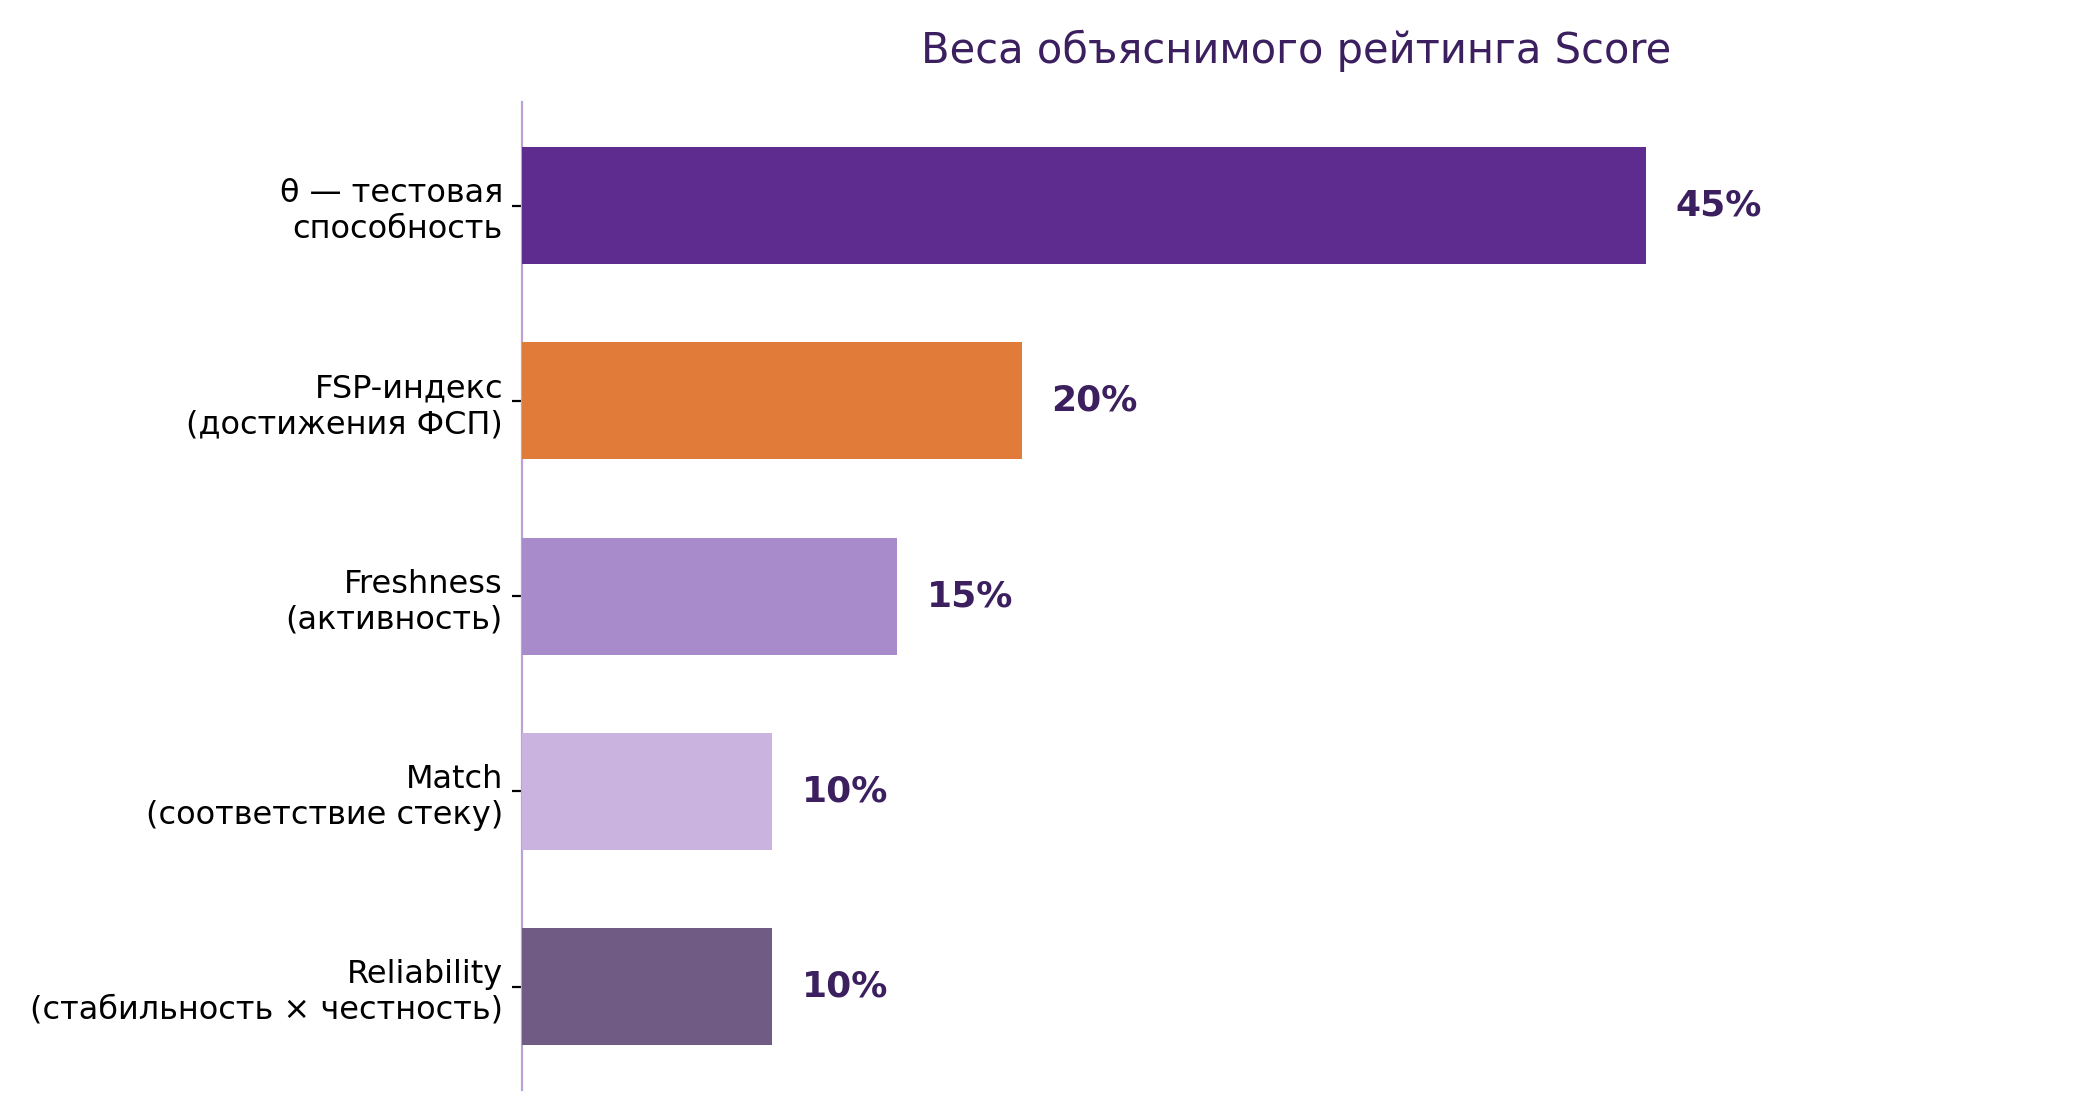
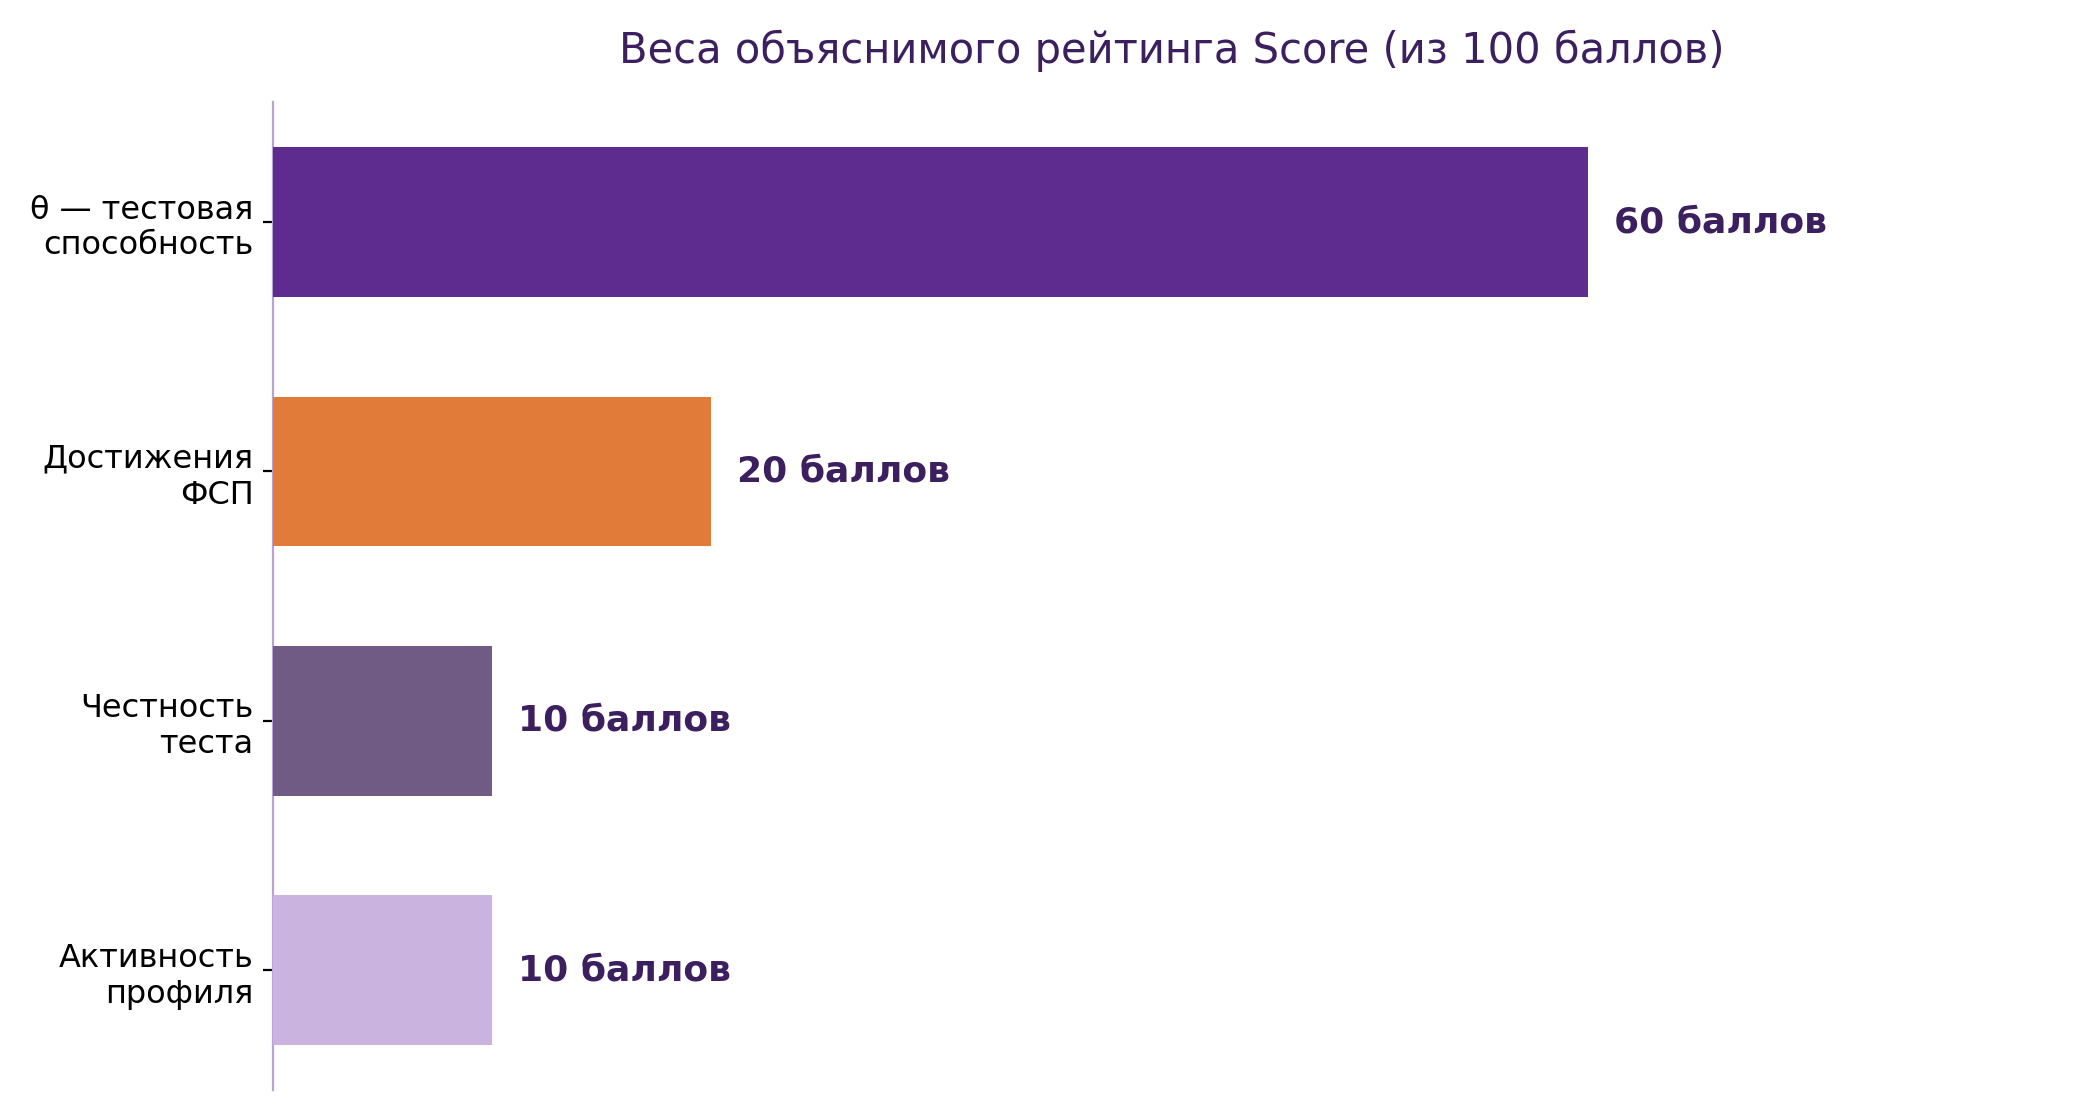
Score 60/20/10/10: честность — самостоятельный вклад, стек и стабильность убраны из рейтинга; рост профиля без стека; парсинг потребности с транслит-словарём; демо-реестр вместо мок-реестра; кнопки копирования демо-ID ФСП; перемеры подборки (19–28 мс) и бенчмарка подбора

Changed region(s): [[0.031, 0.125, 0.8667, 0.7812], [0.031, 0.7812, 0.4333, 0.9375], [0.2786, 0.0312, 0.8357, 0.0625]]

diff --git a/frontend/app/candidate/page.tsx b/frontend/app/candidate/page.tsx
@@ -437,9 +437,18 @@ function ProfileFsp({ profile, reload }: any) {
       )}
       {msg && <p className="mt-2 text-sm text-gray-600">{msg}</p>}
       <p className="mt-2 text-xs text-gray-400">
-        Укажите ваши достижения в ФСП: введите ID участника (вида FSP-2026-0001) — подтвердим их автоматически
-        и добавим вам вес в подборках работодателей.
+        Укажите ваши достижения в ФСП: введите ID участника — подтвердим их автоматически
+        и добавим вам вес в подборках работодателей. Демо-ID для проверки:
       </p>
+      <div className="mt-1.5 flex flex-wrap gap-1.5">
+        {["FSP-2026-0001", "FSP-2026-0002", "FSP-2026-0003"].map((id) => (
+          <button key={id} type="button"
+            className="rounded-md border border-[#c8b0e0] px-2 py-0.5 font-mono text-[11px] text-[#5e2b8e] hover:bg-[#f3ecfa]"
+            onClick={() => { setFspId(id); navigator.clipboard?.writeText(id); }}>
+            {id}
+          </button>
+        ))}
+      </div>
     </Card>
   );
 }

diff --git a/backend/app/services/scoring.py b/backend/app/services/scoring.py
@@ -8,17 +8,16 @@ from sqlalchemy.ext.asyncio import AsyncSession
 from app.models import GRADE_ORDER, CandidateCategory, CandidateProfile, EmployerNeed, Grade
 
 WEIGHTS = {
-    "theta": 0.45,
+    "theta": 0.60,
     "fsp": 0.20,
-    "freshness": 0.15,
-    "match": 0.10,
-    "reliability": 0.10,
+    "integrity": 0.10,
+    "freshness": 0.10,
 }
 LEVEL_WEIGHT = {"international": 1.0, "national": 0.7, "regional": 0.4}
 YEAR_DECAY = 0.85
 
 GRADE_RU = {"junior": "младший", "middle": "средний", "senior": "старший", "lead": "ведущий"}
-breakdown_order = ["theta", "fsp", "freshness", "match", "reliability"]
+breakdown_order = ["theta", "fsp", "integrity", "freshness"]
 
 
 def category_ru(spec_name: str, grade: str) -> str:
@@ -60,8 +59,8 @@ def fsp_index(history: list | None) -> float:
 
 
 def compute_score(
-    candidate: CandidateProfile, need_stack: list, solved_recent: bool = False,
-    theta_override: float | None = None, need_vec: list | None = None,
+    candidate: CandidateProfile, solved_recent: bool = False,
+    theta_override: float | None = None,
 ) -> tuple[float, dict]:
     theta_value = 1.0 / (1.0 + math.exp(-(theta_override if theta_override is not None else (candidate.theta or 0.0))))
 
@@ -73,25 +72,7 @@ def compute_score(
         days = max(0.0, (datetime.now(timezone.utc) - candidate.last_activity_at).total_seconds() / 86400)
         fresh_value = min(1.0, math.exp(-days / 21.0) + (0.25 if solved_recent else 0.0))
 
-    if candidate.stack and need_stack:
-        cs = {s.lower().strip() for s in candidate.stack}
-        ns = {s.lower().strip() for s in need_stack}
-        match_value = len(cs & ns) / len(ns) if ns else 0.5
-    else:
-        match_value = 0.5
-    doc = " ".join(candidate.stack or []) + " " + (candidate.summary or "")
-    need_v = need_vec if need_vec is not None else text_vector(" ".join(need_stack or []))
-    match_value = max(match_value, round(match_semantic(doc, need_v), 3))
-
-    if candidate.theta_se is None:
-        rel_value = 0.5
-    else:
-        rel_value = 1.0 / (1.0 + candidate.theta_se**2)
-        if candidate.theta_history and len(candidate.theta_history) > 1:
-            mean = sum(candidate.theta_history) / len(candidate.theta_history)
-            var = sum((t - mean) ** 2 for t in candidate.theta_history) / len(candidate.theta_history)
-            rel_value = 0.5 * rel_value + 0.5 * (1.0 / (1.0 + var))
-    rel_value *= 0.6 + 0.4 * (candidate.integrity if candidate.integrity is not None else 1.0)
+    integrity_value = candidate.integrity if candidate.integrity is not None else 1.0
 
     breakdown = {
         "theta": {"value": round(theta_value, 3), "weight": WEIGHTS["theta"],
@@ -100,15 +81,12 @@ def compute_score(
         "fsp": {"value": round(fsp_value, 3), "weight": WEIGHTS["fsp"],
                 "contribution": round(WEIGHTS["fsp"] * fsp_value, 3),
                 "label": "Достижения ФСП"},
+        "integrity": {"value": round(integrity_value, 3), "weight": WEIGHTS["integrity"],
+                      "contribution": round(WEIGHTS["integrity"] * integrity_value, 3),
+                      "label": "Честность теста"},
         "freshness": {"value": round(fresh_value, 3), "weight": WEIGHTS["freshness"],
                       "contribution": round(WEIGHTS["freshness"] * fresh_value, 3),
                       "label": "Активность профиля"},
-        "match": {"value": round(match_value, 3), "weight": WEIGHTS["match"],
-                  "contribution": round(WEIGHTS["match"] * match_value, 3),
-                  "label": "Соответствие стеку"},
-        "reliability": {"value": round(rel_value, 3), "weight": WEIGHTS["reliability"],
-                        "contribution": round(WEIGHTS["reliability"] * rel_value, 3),
-                        "label": "Стабильность результатов"},
     }
     return sum(v["contribution"] for v in breakdown.values()), breakdown
 
@@ -117,7 +95,7 @@ async def parse_need(db: AsyncSession, raw_text: str) -> dict:
     from app.models import Specialization
     specs = (await db.execute(select(Specialization))).scalars().all()
 
-    text = raw_text.lower()
+    text = normalize_text(raw_text)
     spec_code = next((s.code for s in specs if s.code in text or s.name.lower() in text), None)
 
     min_grade = None
@@ -143,7 +121,6 @@ async def build_shortlist(
 ) -> list[dict]:
     from app.models import Specialization, Microtask, MicrotaskStatus
     spec_names = {s.code: s.name for s in (await db.execute(select(Specialization))).scalars().all()}
-    need_vec = text_vector(need.raw_text or " ".join(need.stack or []))
     solved_ids = set((await db.execute(
         select(Microtask.candidate_id).where(
             Microtask.status.in_([MicrotaskStatus.solved, MicrotaskStatus.approach]),
@@ -180,9 +157,8 @@ async def build_shortlist(
         if only_fsp and not c.fsp_history:
             continue
 
-        score, breakdown = compute_score(c, need.stack or [], theta_override=cat.theta,
-                                         solved_recent=str(c.user_id) in solved_ids,
-                                         need_vec=need_vec)
+        score, breakdown = compute_score(c, theta_override=cat.theta,
+                                         solved_recent=str(c.user_id) in solved_ids)
         top2 = sorted(breakdown.values(), key=lambda v: v["contribution"], reverse=True)[:2]
         rationale = (
             f"Категория {spec_names.get(cat.specialization_code, cat.specialization_code)} · {GRADE_RU[cat.grade.value]}; "
@@ -242,9 +218,6 @@ def freshness_days_left(last_activity_at: datetime | None, threshold: float = 1.
     return int(round(21.0 * math.log(now_level / threshold)))
 
 
-KEYBOARD_RU = "йцукенгшщзхъфывапролджэячсмитьбюё"
-KEYBOARD_EN = "qwertyuiop[]asdfghjkl;'zxcvbnm,.`"
-
 SYNONYMS = {
     "реакт": "react", "реактом": "react", "рекат": "react", "реактjs": "react",
     "вью": "vue", "вьюjs": "vue", "анжуляр": "angular", "антуляр": "angular",
@@ -262,53 +235,10 @@ SYNONYMS = {
     "компьютерное зрение": "cv", "компзрени": "cv",
 }
 
-_TOKEN_RE = re.compile(r"[a-zа-яё0-9+#.\-]{2,}")
-
-
-def translate_layout(text: str) -> str:
-    """Перекладка раскладки: «въпросы»→ «dfgkbp» нет — только ru→en и en→ru
-    для латинских фрагментов, набранных в русской раскладке, и наоборот."""
-    out = text
-    table_en = str.maketrans(KEYBOARD_RU, KEYBOARD_EN)
-    table_ru = str.maketrans(KEYBOARD_EN, KEYBOARD_RU)
-    for tok in _TOKEN_RE.findall(text):
-        if re.fullmatch(r"[а-яё]+", tok):
-            en = tok.translate(table_en)
-            if re.fullmatch(r"[a-z]+", en):
-                out = out.replace(tok, f"{tok} {en}")
-        elif re.fullmatch(r"[a-z]+", tok) and len(tok) > 2:
-            ru = tok.translate(table_ru)
-            if re.fullmatch(r"[а-яё]+", ru):
-                out = out.replace(tok, f"{tok} {ru}")
-    return out
-
 
 def normalize_text(text: str) -> str:
-    """Единая нормализация: раскладка → нижний регистр → синонимы → токены."""
-    text = translate_layout(text.lower().replace("ё", "е"))
+    """Нормализация потребности: регистр, ё и словарь транслит-синонимов."""
+    text = text.lower().replace("ё", "е")
     for k, v in sorted(SYNONYMS.items(), key=lambda kv: -len(kv[0])):
         text = re.sub(rf"(?<!\w){re.escape(k)}(?!\w)", v, text)
-    return " ".join(_TOKEN_RE.findall(text))
-
-
-def text_vector(text: str, dim: int = 256):
-    """Хэш-вектор bag-of-words (256): без тяжёлой модели, ловит пересечение
-    слов и фраз; нормализован под косинусную близость (pgvector <=>)."""
-    import hashlib
-    vec = [0.0] * dim
-    toks = normalize_text(text).split()
-    for tok in toks:
-        idx = int(hashlib.md5(tok.encode()).hexdigest(), 16) % dim
-        vec[idx] += 1.0
-    n = sum(v * v for v in vec) ** 0.5
-    return [v / n for v in vec] if n else vec
-
-
-def cosine(a: list, b: list) -> float:
-    return sum(x * y for x, y in zip(a, b))
-
-
-def match_semantic(candidate_doc: str, need_vec: list) -> float:
-    """Косинусная близость документа кандидата к вектору потребности."""
-    cvec = text_vector(candidate_doc)
-    return max(0.0, min(1.0, cosine(cvec, need_vec)))
+    return text

diff --git a/backend/app/api/routes/interaction.py b/backend/app/api/routes/interaction.py
@@ -457,42 +457,23 @@ async def candidate_growth(candidate=Depends(get_candidate_profile), db=Depends(
         select(CandidateCategory).where(CandidateCategory.candidate_id == candidate.user_id)
     )).scalars().all()
     if not cats:
-        return {"steps": [{"action": "Пройдите тестирование — без категории вы невидимы для работодателей", "delta": 0.45}]}
+        return {"steps": [{"action": "Пройдите тестирование — без категории вы невидимы для работодателей", "delta": 0.60}]}
 
     cat = max(cats, key=lambda x: x.theta)
-    base, breakdown = compute_score(candidate, [], theta_override=cat.theta)
+    base, breakdown = compute_score(candidate, theta_override=cat.theta)
 
     steps = []
     fresh_now = breakdown["freshness"]["value"]
     if fresh_now < 0.99:
         steps.append({
             "action": "Решите микрозадачу — профиль снова «тёплый»",
-            "delta": round(0.15 * (1.0 - fresh_now), 3),
-        })
-    my_stack = {s.lower() for s in (candidate.stack or [])}
-    wanted = (await db.execute(
-        select(Vacancy.stack).where(
-            Vacancy.is_active.is_(True),
-            Vacancy.specialization_code == cat.specialization_code,
-        )
-    )).scalars().all()
-    popular: dict[str, int] = {}
-    for stack in wanted:
-        for t in stack:
-            if t.lower() not in my_stack:
-                popular[t.lower()] = popular.get(t.lower(), 0) + 1
-    top_wanted = sorted(popular, key=popular.get, reverse=True)[:3]
-    if top_wanted:
-        match_now = breakdown["match"]["value"]
-        steps.append({
-            "action": f"Добавьте навыки из актуальных вакансий: {', '.join(top_wanted)}",
-            "delta": round(0.10 * (1.0 - match_now), 3),
+            "delta": round(0.10 * (1.0 - fresh_now), 3),
         })
     bounds = {"junior": -0.5, "middle": 0.5, "senior": 1.5, "lead": None}
     target_b = bounds.get(cat.grade.value)
     if target_b is not None:
         theta_target = target_b + 0.25
-        delta = 0.45 * (1.0 / (1.0 + math.exp(-theta_target)) - breakdown["theta"]["value"])
+        delta = 0.60 * (1.0 / (1.0 + math.exp(-theta_target)) - breakdown["theta"]["value"])
         if delta > 0.005:
             next_grade = GRADE_ORDER[GRADE_ORDER.index(cat.grade.value) + 1]
             steps.append({
@@ -531,7 +512,7 @@ async def candidate_metrics_data(db, candidate) -> list[dict]:
         above = sum(1 for k in keys if k > mine)
         below = sum(1 for k in keys if k < mine)
         total = len(keys)
-        _, breakdown = compute_score(candidate, [], theta_override=cat.theta)
+        _, breakdown = compute_score(candidate, theta_override=cat.theta)
         out.append({
             "specialization": cat.specialization_code,
             "grade": cat.grade.value,

diff --git a/backend/app/api/routes/fsp.py b/backend/app/api/routes/fsp.py
@@ -47,7 +47,7 @@ def sign_record(payload: dict) -> str:
     return hmac.new(settings.secret_key.encode(), raw.encode(), hashlib.sha256).hexdigest()
 
 
-@router.get("/registry/{fsp_id}", summary="История достижений участника ФСП (мок-реестр)")
+@router.get("/registry/{fsp_id}", summary="История достижений участника ФСП (демо-реестр)")
 async def registry(fsp_id: str):
     record = MOCK_REGISTRY.get(fsp_id)
     if record is None:
